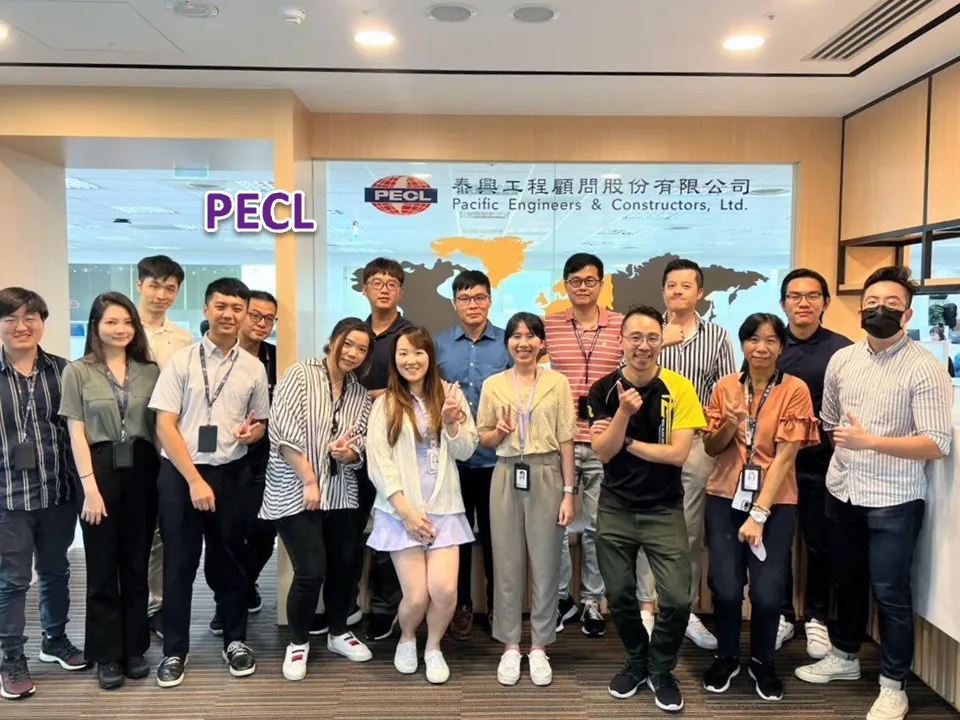
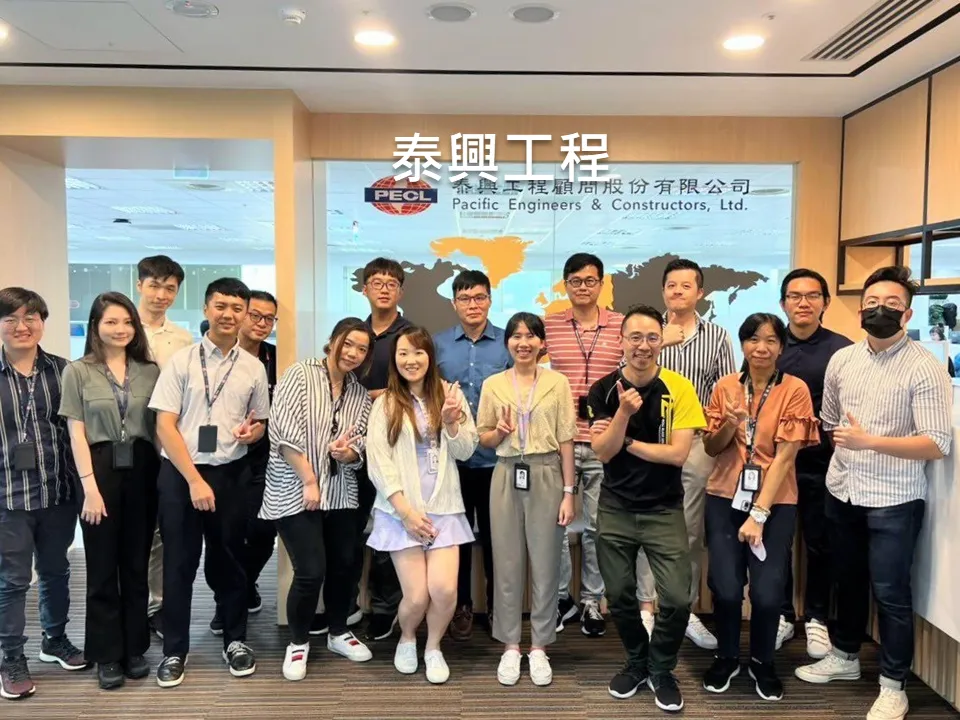
更新合作公司照片

Changed region(s): [[0.4062, 0.1833, 0.6562, 0.275], [0.1875, 0.2444, 0.3438, 0.3361]]

diff --git a/index.html b/index.html
@@ -177,7 +177,7 @@
 <body>
   <header>
     <div class="wrap nav">
-      <a class="brand" href="#home" aria-label="Tri 工程設計首頁"><img src="./assets/sugoiiLogo.png" alt="鉤逸科技標誌"><span class="brand-copy">鉤逸科技<span>ENGINEERING · DIGITAL · INTEGRATION</span></span></a>
+      <a class="brand" href="#home" aria-label="工程設計首頁"><img src="./assets/sugoiiLogo.png" alt="鉤逸科技標誌"><span class="brand-copy">鉤逸科技<span>ENGINEERING · DIGITAL · INTEGRATION</span></span></a>
       <button class="menu" aria-label="開啟導覽選單" aria-expanded="false">☰</button>
       <nav class="links" aria-label="主要導覽"><a href="#services">服務項目</a><a href="#work">案例作品</a><a href="#approach">工作方法</a><a href="#about">關於我們</a></nav>
       <a class="nav-cta" href="#contact">洽詢合作 ↗</a>
@@ -189,11 +189,11 @@
         <div>
           <div class="eyebrow">Engineering for what’s next</div>
           <h1>讓工程，<br><em>走得更遠。</em></h1>
-          <p>從工程設計到數位整合，以專業、精準與協作，回應每個基地與現場的真實需求。</p>
+          <p>從工程設計到數位整合，以專業、精準與協作，回應每個專案與現場的真實需求。</p>
           <div class="actions"><a class="btn" href="#services">探索服務 <span>↘</span></a><a class="btn ghost" href="#work">瀏覽案例 <span>↗</span></a></div>
           <div class="hero-note"><div><strong>ENGINEERING</strong>工程專業</div><div><strong>DIGITAL</strong>數位工具</div><div><strong>INTEGRATION</strong>跨域整合</div></div>
         </div>
-        <div class="visual" aria-hidden="true"><div class="orbit"><i class="orbit-dot"></i></div><img class="logo-large" src="./assets/sugoiiLogo.png" alt=""><div class="visual-label">DESIGN WITH PURPOSE / 001</div></div>
+        <div class="visual" aria-hidden="true"><div class="orbit"><i class="orbit-dot"></i></div><img class="logo-large" src="./assets/sugoiiLogo.png" alt=""><div class="visual-label">ADD VALUE TO YOUR WORK</div></div>
       </div>
       <div class="scroll">SCROLL TO EXPLORE</div>
     </section>
@@ -212,12 +212,8 @@
       </div>
     </section>
     <section class="work" id="work">
-      <div class="wrap"><div class="section-head"><div><div class="eyebrow">Selected work</div><h2>讓資訊，能夠清楚呈現。</h2></div><p>從橋梁工程到排水設施，運用工程視角與數位方法，讓每個細節都能被看見、被理解、被討論、被完成。</p></div>
+      <div class="wrap"><div class="section-head"><div><div class="eyebrow">Selected work</div><h2>讓資訊，清楚被看見。</h2></div><p>從橋梁工程到排水設施，運用工程視角與數位方法，讓每個細節都能被看見、被理解、被討論、被完成。</p></div>
         <div class="project-grid">
-          <!-- <article class="project"><img src="./wix網站檔案/道路橋樑工程-2.gif" alt="道路與橋梁工程模擬畫面" loading="lazy"><div class="project-info"><span class="project-type">INFRASTRUCTURE / ROAD AND BRIDGE</span><h3>案例01</h3><p>以模型整合工程資訊，呈現道路、周邊環境的關係。</p></div></article>
-          <article class="project"><img src="./projects/淡入淡出動畫.webp" alt="排水設施設計示意" loading="lazy"><div class="project-info"><span class="project-type">CIVIL / DRAINAGE</span><h3>排水系統整合</h3><p>以整體基地條件梳理排水路徑與設施介面。</p><span class="number">PROJECT 02</span></div></article>
-          <article class="project"><img src="./wix網站檔案/Enscape_2024-07-04-22-08-14.png" alt="工程空間視覺化成果" loading="lazy"><div class="project-info"><span class="project-type">VISUALIZATION / DESIGN</span><h3>工程視覺化提案</h3><p>將設計構想轉化為清晰易懂的空間畫面。</p><span class="number">PROJECT 03</span></div></article>
-          <article class="project"><img src="./wix網站檔案/Gemini_Generated_Image_m18ksnm18ksnm18k.png" alt="工程空間視覺化成果" loading="lazy"><div class="project-info"><span class="project-type">VISUALIZATION / DESIGN</span><h3>鋼筋細節建置</h3><p>如實呈現鋼筋細節，提供正確數量資訊與施工界面。</p><span class="number">PROJECT 04</span></div></article> -->
           <article class="project">
             <div class="project-slideshow">
               <img src="./projects/slideshow01/01.webp" alt="1" loading="lazy" class="active">
@@ -365,7 +361,7 @@
     </section>
     <section class="contact" id="contact"><div class="wrap"><div><div class="eyebrow">Start a conversation</div><h2>一起把下一個想法，<br>變成可行的工程。</h2><p>歡迎與我們分享您的專案需求。</p></div><a class="btn" href="mailto:tpuaup@gmail.com?subject=與鉤逸合作洽詢">聯絡我們 <span>↗</span></a></div></section>
   </main>
-  <footer><div class="wrap foot"><a class="foot-brand" href="#home"><img src="./assets/sugoiiLogo.png" alt="">鉤逸科技</a><div>© 2026 SugoiiTech All rights reserved.</div><div class="foot-links"><a href="#about">關於</a><a href="#services">服務</a><a href="#work">案例</a><a href="#contact">聯絡</a></div></div></footer>
+  <footer><div class="wrap foot"><a class="foot-brand" href="#home"><img src="./assets/sugoiiLogo.png" alt="">鉤逸科技有限公司</a><div>© 2026 SugoiiTech All rights reserved.</div><div class="foot-links"><a href="#about">關於</a><a href="#services">服務</a><a href="#work">案例</a><a href="#contact">聯絡</a></div></div></footer>
   <script>
     const menuButton=document.querySelector('.menu');const navLinks=document.querySelector('.links');menuButton.addEventListener('click',()=>{const open=navLinks.classList.toggle('open');menuButton.setAttribute('aria-expanded',String(open));menuButton.textContent=open?'×':'☰'});navLinks.querySelectorAll('a').forEach(link=>link.addEventListener('click',()=>{navLinks.classList.remove('open');menuButton.setAttribute('aria-expanded','false');menuButton.textContent='☰'}));
 
